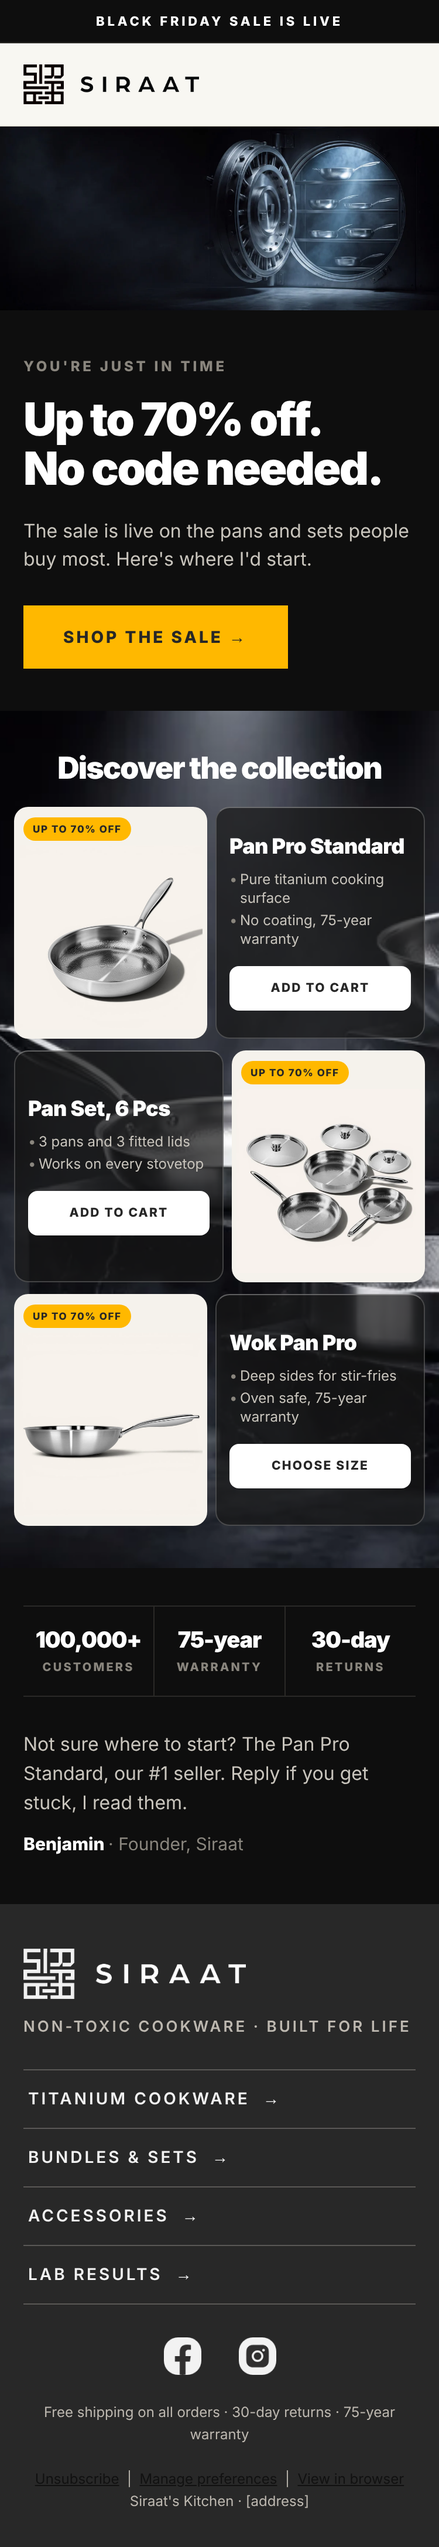
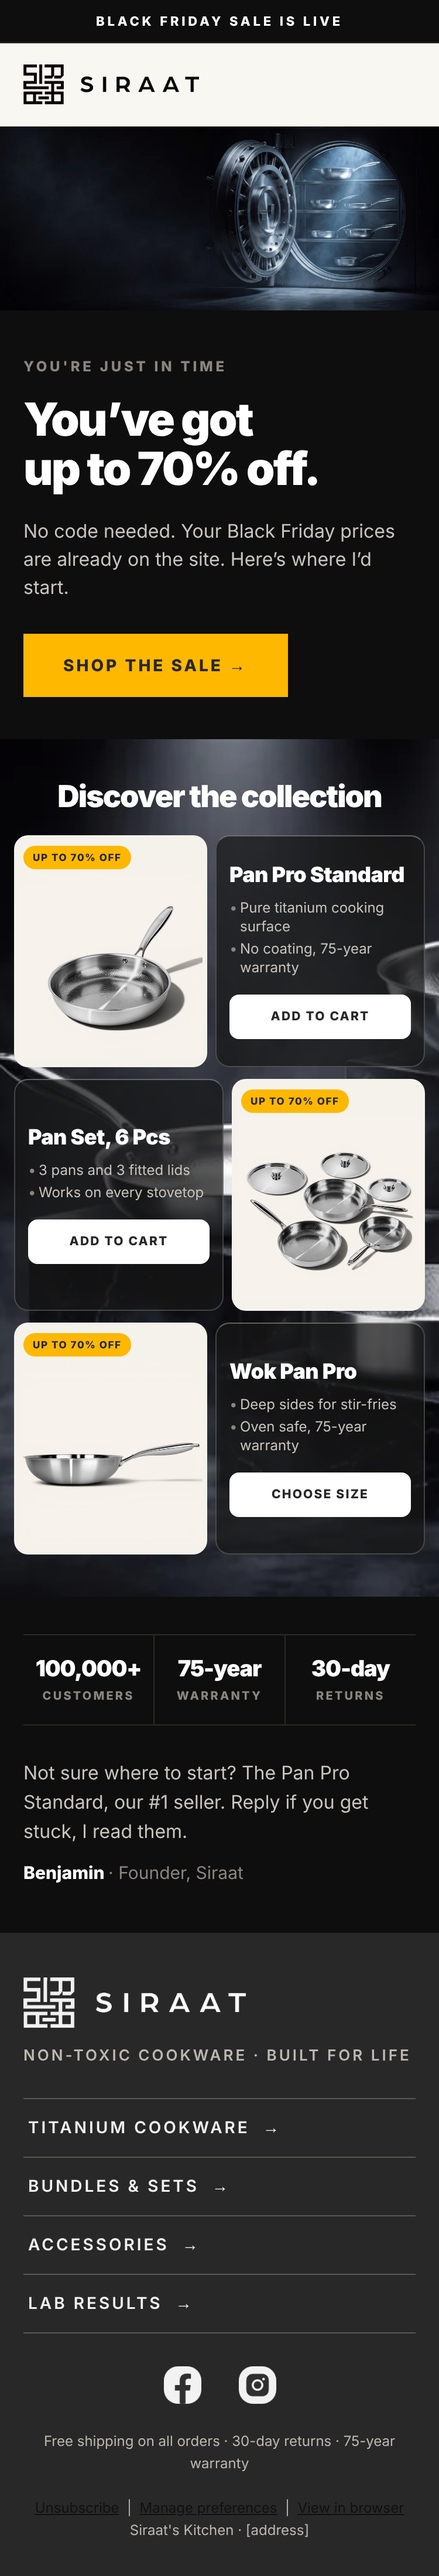
BFCM: W1 D kop 'You've got up to 70% off.'
Claude-Session: https://claude.ai/code/session_01HjCaDE95ohEXY6DPZTSH67

diff --git a/klaviyo/templates/v3/bfcm/signup/bf-w1-d-preview.html b/klaviyo/templates/v3/bfcm/signup/bf-w1-d-preview.html
@@ -120,8 +120,8 @@ MARKET-SIGNAL: profile (person.Country). Onbekend land telt als niet-US.
 
 <tr><td bgcolor="#0E0E0E" style="background-color:#0E0E0E;padding:0;"><a href="https://siraatskitchen.com/collections/black-friday-sale" style="text-decoration:none;"><img src="https://cdn.shopify.com/s/files/1/0907/0877/1156/files/siraat-collection-exclusive-08-vault-desktop.jpg?width=1200" width="600" alt="Siraat hammered titanium pans in a dark vault" style="display:block;width:100%;max-width:600px;height:auto;border:0;"></a></td></tr>
 <tr><td class="pad" align="left" bgcolor="#0E0E0E" style="background-color:#0E0E0E;padding:40px 40px 0 40px;"><div style="font-family:Inter,Arial,Helvetica,sans-serif;font-size:12px;line-height:16px;font-weight:800;letter-spacing:2.4px;color:#8A867E;text-transform:uppercase;">You're just in time</div></td></tr>
-<tr><td class="pad h1" align="left" bgcolor="#0E0E0E" style="background-color:#0E0E0E;padding:16px 40px 0 40px;font-family:Inter,Arial,Helvetica,sans-serif;font-size:54px;line-height:56px;font-weight:900;letter-spacing:-2px;color:#FFFFFF;">Up to 70% off.<br>No code needed.</td></tr>
-<tr><td class="pad lead" align="left" bgcolor="#0E0E0E" style="background-color:#0E0E0E;padding:20px 40px 0 40px;font-family:Inter,Arial,Helvetica,sans-serif;font-size:18px;line-height:27px;color:#C9C5BD;">The sale is live on the pans and sets people buy most. Here's where I'd start.</td></tr>
+<tr><td class="pad h1" align="left" bgcolor="#0E0E0E" style="background-color:#0E0E0E;padding:16px 40px 0 40px;font-family:Inter,Arial,Helvetica,sans-serif;font-size:54px;line-height:56px;font-weight:900;letter-spacing:-2px;color:#FFFFFF;">You&rsquo;ve got<br>up to 70% off.</td></tr>
+<tr><td class="pad lead" align="left" bgcolor="#0E0E0E" style="background-color:#0E0E0E;padding:20px 40px 0 40px;font-family:Inter,Arial,Helvetica,sans-serif;font-size:18px;line-height:27px;color:#C9C5BD;">No code needed. Your Black Friday prices are already on the site. Here&rsquo;s where I&rsquo;d start.</td></tr>
 <tr><td class="pad" align="left" bgcolor="#0E0E0E" style="background-color:#0E0E0E;padding:28px 40px 36px 40px;"><table role="presentation" cellpadding="0" cellspacing="0" border="0"><tr><td align="center" bgcolor="#FFB800" style="background-color:#FFB800;"><!--[if mso]><v:rect xmlns:v="urn:schemas-microsoft-com:vml" href="https://siraatskitchen.com/collections/black-friday-sale" style="height:54px;v-text-anchor:middle;width:280px;" stroke="f" fillcolor="#FFB800"><center style="color:#272727;font-family:Arial,sans-serif;font-size:14px;font-weight:bold;letter-spacing:2px;">SHOP THE SALE</center></v:rect><![endif]--><!--[if !mso]><!--><a href="https://siraatskitchen.com/collections/black-friday-sale" style="display:block;padding:18px 34px;font-family:Inter,Arial,Helvetica,sans-serif;font-size:14px;line-height:18px;font-weight:800;letter-spacing:2px;color:#272727;text-decoration:none;text-transform:uppercase;white-space:nowrap;">Shop the sale &rarr;</a><!--<![endif]--></td></tr></table></td></tr>
 <tr><td background="https://cdn.shopify.com/s/files/1/0907/0877/1156/files/siraat-collection-exclusive-01-plinths-desktop.jpg?width=1200" bgcolor="#0E0E0E" valign="top" style="background-color:#0E0E0E;background-image:url('https://cdn.shopify.com/s/files/1/0907/0877/1156/files/siraat-collection-exclusive-01-plinths-desktop.jpg?width=1200');background-position:center center;background-size:cover;background-repeat:no-repeat;">
 <!--[if gte mso 9]><v:rect xmlns:v="urn:schemas-microsoft-com:vml" fill="true" stroke="false" style="width:600px;"><v:fill type="frame" src="https://cdn.shopify.com/s/files/1/0907/0877/1156/files/siraat-collection-exclusive-01-plinths-desktop.jpg?width=1200" color="#0E0E0E" /><v:textbox style="mso-fit-shape-to-text:true" inset="0,0,0,0"><![endif]-->
@@ -166,7 +166,7 @@ MARKET-SIGNAL: profile (person.Country). Onbekend land telt als niet-US.
   <tr><td align="center" bgcolor="#282828" style="background-color:#282828;font-family:Inter,Arial,Helvetica,sans-serif;font-size:12px;line-height:19px;color:#BDB8B0;text-align:center;">
     Free shipping on all orders &middot; 30-day returns &middot; 75-year warranty<br><br>
     <a href="#" style="color:#111111;">Unsubscribe</a> &nbsp;|&nbsp; <a href="#" style="color:#111111;">Manage preferences</a> &nbsp;|&nbsp; <a href="#" style="color:#111111;">View in browser</a><br>
-    Siraat's Kitchen &middot; [address]<span style="display:none!important;visibility:hidden;mso-hide:all;font-size:1px;line-height:1px;max-height:0;max-width:0;opacity:0;overflow:hidden;color:#282828;">ref 20261031211507</span>
+    Siraat's Kitchen &middot; [address]<span style="display:none!important;visibility:hidden;mso-hide:all;font-size:1px;line-height:1px;max-height:0;max-width:0;opacity:0;overflow:hidden;color:#282828;">ref 20261031212347</span>
   </td></tr>
 </table>
 </td></tr>

diff --git a/klaviyo/templates/v3/bfcm/signup/bf-w1-d.html b/klaviyo/templates/v3/bfcm/signup/bf-w1-d.html
@@ -60,8 +60,8 @@ MARKET-SIGNAL: profile (person.Country). Onbekend land telt als niet-US.
 {{HEADER}}
 <tr><td bgcolor="#0E0E0E" style="background-color:#0E0E0E;padding:0;"><a href="https://siraatskitchen.com/collections/black-friday-sale" style="text-decoration:none;"><img src="https://cdn.shopify.com/s/files/1/0907/0877/1156/files/siraat-collection-exclusive-08-vault-desktop.jpg?width=1200" width="600" alt="Siraat hammered titanium pans in a dark vault" style="display:block;width:100%;max-width:600px;height:auto;border:0;"></a></td></tr>
 <tr><td class="pad" align="left" bgcolor="#0E0E0E" style="background-color:#0E0E0E;padding:40px 40px 0 40px;"><div style="font-family:Inter,Arial,Helvetica,sans-serif;font-size:12px;line-height:16px;font-weight:800;letter-spacing:2.4px;color:#8A867E;text-transform:uppercase;">You're just in time</div></td></tr>
-<tr><td class="pad h1" align="left" bgcolor="#0E0E0E" style="background-color:#0E0E0E;padding:16px 40px 0 40px;font-family:Inter,Arial,Helvetica,sans-serif;font-size:54px;line-height:56px;font-weight:900;letter-spacing:-2px;color:#FFFFFF;">Up to 70% off.<br>No code needed.</td></tr>
-<tr><td class="pad lead" align="left" bgcolor="#0E0E0E" style="background-color:#0E0E0E;padding:20px 40px 0 40px;font-family:Inter,Arial,Helvetica,sans-serif;font-size:18px;line-height:27px;color:#C9C5BD;">The sale is live on the pans and sets people buy most. Here's where I'd start.</td></tr>
+<tr><td class="pad h1" align="left" bgcolor="#0E0E0E" style="background-color:#0E0E0E;padding:16px 40px 0 40px;font-family:Inter,Arial,Helvetica,sans-serif;font-size:54px;line-height:56px;font-weight:900;letter-spacing:-2px;color:#FFFFFF;">You&rsquo;ve got<br>up to 70% off.</td></tr>
+<tr><td class="pad lead" align="left" bgcolor="#0E0E0E" style="background-color:#0E0E0E;padding:20px 40px 0 40px;font-family:Inter,Arial,Helvetica,sans-serif;font-size:18px;line-height:27px;color:#C9C5BD;">No code needed. Your Black Friday prices are already on the site. Here&rsquo;s where I&rsquo;d start.</td></tr>
 <tr><td class="pad" align="left" bgcolor="#0E0E0E" style="background-color:#0E0E0E;padding:28px 40px 36px 40px;"><table role="presentation" cellpadding="0" cellspacing="0" border="0"><tr><td align="center" bgcolor="#FFB800" style="background-color:#FFB800;"><!--[if mso]><v:rect xmlns:v="urn:schemas-microsoft-com:vml" href="https://siraatskitchen.com/collections/black-friday-sale" style="height:54px;v-text-anchor:middle;width:280px;" stroke="f" fillcolor="#FFB800"><center style="color:#272727;font-family:Arial,sans-serif;font-size:14px;font-weight:bold;letter-spacing:2px;">SHOP THE SALE</center></v:rect><![endif]--><!--[if !mso]><!--><a href="https://siraatskitchen.com/collections/black-friday-sale" style="display:block;padding:18px 34px;font-family:Inter,Arial,Helvetica,sans-serif;font-size:14px;line-height:18px;font-weight:800;letter-spacing:2px;color:#272727;text-decoration:none;text-transform:uppercase;white-space:nowrap;">Shop the sale &rarr;</a><!--<![endif]--></td></tr></table></td></tr>
 <tr><td background="https://cdn.shopify.com/s/files/1/0907/0877/1156/files/siraat-collection-exclusive-01-plinths-desktop.jpg?width=1200" bgcolor="#0E0E0E" valign="top" style="background-color:#0E0E0E;background-image:url('https://cdn.shopify.com/s/files/1/0907/0877/1156/files/siraat-collection-exclusive-01-plinths-desktop.jpg?width=1200');background-position:center center;background-size:cover;background-repeat:no-repeat;">
 <!--[if gte mso 9]><v:rect xmlns:v="urn:schemas-microsoft-com:vml" fill="true" stroke="false" style="width:600px;"><v:fill type="frame" src="https://cdn.shopify.com/s/files/1/0907/0877/1156/files/siraat-collection-exclusive-01-plinths-desktop.jpg?width=1200" color="#0E0E0E" /><v:textbox style="mso-fit-shape-to-text:true" inset="0,0,0,0"><![endif]-->

diff --git a/klaviyo/templates/v3/bfcm/signup/bf-w1-d.klaviyo.html b/klaviyo/templates/v3/bfcm/signup/bf-w1-d.klaviyo.html
@@ -106,8 +106,8 @@
 
 <tr><td bgcolor="#0E0E0E" style="background-color:#0E0E0E;padding:0;"><a href="https://siraatskitchen.com/collections/black-friday-sale" style="text-decoration:none;"><img src="https://cdn.shopify.com/s/files/1/0907/0877/1156/files/siraat-collection-exclusive-08-vault-desktop.jpg?width=1200" width="600" alt="Siraat hammered titanium pans in a dark vault" style="display:block;width:100%;max-width:600px;height:auto;border:0;"></a></td></tr>
 <tr><td class="pad" align="left" bgcolor="#0E0E0E" style="background-color:#0E0E0E;padding:40px 40px 0 40px;"><div style="font-family:Inter,Arial,Helvetica,sans-serif;font-size:12px;line-height:16px;font-weight:800;letter-spacing:2.4px;color:#8A867E;text-transform:uppercase;">You're just in time</div></td></tr>
-<tr><td class="pad h1" align="left" bgcolor="#0E0E0E" style="background-color:#0E0E0E;padding:16px 40px 0 40px;font-family:Inter,Arial,Helvetica,sans-serif;font-size:54px;line-height:56px;font-weight:900;letter-spacing:-2px;color:#FFFFFF;">Up to 70% off.<br>No code needed.</td></tr>
-<tr><td class="pad lead" align="left" bgcolor="#0E0E0E" style="background-color:#0E0E0E;padding:20px 40px 0 40px;font-family:Inter,Arial,Helvetica,sans-serif;font-size:18px;line-height:27px;color:#C9C5BD;">The sale is live on the pans and sets people buy most. Here's where I'd start.</td></tr>
+<tr><td class="pad h1" align="left" bgcolor="#0E0E0E" style="background-color:#0E0E0E;padding:16px 40px 0 40px;font-family:Inter,Arial,Helvetica,sans-serif;font-size:54px;line-height:56px;font-weight:900;letter-spacing:-2px;color:#FFFFFF;">You&rsquo;ve got<br>up to 70% off.</td></tr>
+<tr><td class="pad lead" align="left" bgcolor="#0E0E0E" style="background-color:#0E0E0E;padding:20px 40px 0 40px;font-family:Inter,Arial,Helvetica,sans-serif;font-size:18px;line-height:27px;color:#C9C5BD;">No code needed. Your Black Friday prices are already on the site. Here&rsquo;s where I&rsquo;d start.</td></tr>
 <tr><td class="pad" align="left" bgcolor="#0E0E0E" style="background-color:#0E0E0E;padding:28px 40px 36px 40px;"><table role="presentation" cellpadding="0" cellspacing="0" border="0"><tr><td align="center" bgcolor="#FFB800" style="background-color:#FFB800;"><!--[if mso]><v:rect xmlns:v="urn:schemas-microsoft-com:vml" href="https://siraatskitchen.com/collections/black-friday-sale" style="height:54px;v-text-anchor:middle;width:280px;" stroke="f" fillcolor="#FFB800"><center style="color:#272727;font-family:Arial,sans-serif;font-size:14px;font-weight:bold;letter-spacing:2px;">SHOP THE SALE</center></v:rect><![endif]--><!--[if !mso]><!--><a href="https://siraatskitchen.com/collections/black-friday-sale" style="display:block;padding:18px 34px;font-family:Inter,Arial,Helvetica,sans-serif;font-size:14px;line-height:18px;font-weight:800;letter-spacing:2px;color:#272727;text-decoration:none;text-transform:uppercase;white-space:nowrap;">Shop the sale &rarr;</a><!--<![endif]--></td></tr></table></td></tr>
 <tr><td background="https://cdn.shopify.com/s/files/1/0907/0877/1156/files/siraat-collection-exclusive-01-plinths-desktop.jpg?width=1200" bgcolor="#0E0E0E" valign="top" style="background-color:#0E0E0E;background-image:url('https://cdn.shopify.com/s/files/1/0907/0877/1156/files/siraat-collection-exclusive-01-plinths-desktop.jpg?width=1200');background-position:center center;background-size:cover;background-repeat:no-repeat;">
 <!--[if gte mso 9]><v:rect xmlns:v="urn:schemas-microsoft-com:vml" fill="true" stroke="false" style="width:600px;"><v:fill type="frame" src="https://cdn.shopify.com/s/files/1/0907/0877/1156/files/siraat-collection-exclusive-01-plinths-desktop.jpg?width=1200" color="#0E0E0E" /><v:textbox style="mso-fit-shape-to-text:true" inset="0,0,0,0"><![endif]-->

diff --git a/LOG.md b/LOG.md
@@ -301,3 +301,4 @@ Nieuwste bovenaan. Elke regel: datum, wat er gedaan is, wat het opleverde of wat
 - 31 okt 2026: BF-W1 Smooche-kaarten met glaseffect (C vault, D plinths, E strak), ADD TO CART via /cart/add, regel free shipping onder hero weg. Figma rij 190:2.
 - 31 okt 2026: variant D (glass plinths) gekozen. Template Xr8L4u in flows Rn556d (A/B hoofdlijst) en WjAc2q (BFCM2026), beide nog draft. Backups in scratchpad bfw1-*-backup.json.
 - 31 okt 2026: testmails BF-W1 D (template Xr8L4u) VS en Duitsland naar lolagroothuis@gmail.com op verzoek Floris.
+- 31 okt 2026: W1 D kop naar 'You've got up to 70% off.' + 'No code needed. Your Black Friday prices are already on the site.' (Floris wilde 'You've got the discount'; 'up to' blijft omdat niet alles 70% is). Templates TdfWqT, XkvvH6, Xr8L4u bijgewerkt, Figma 190:2.
